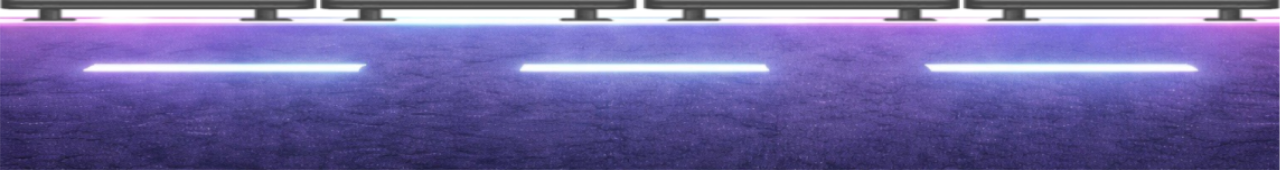
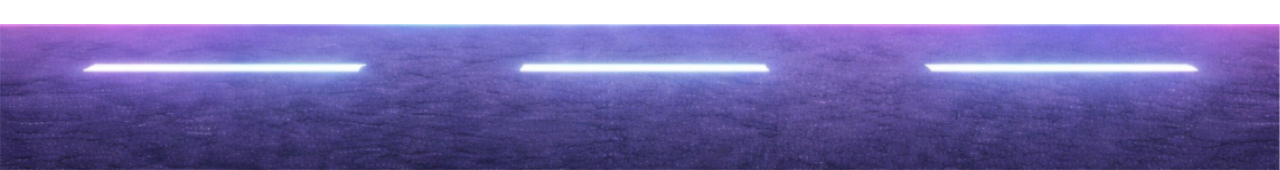
色々更新

Changed region(s): [[0.0, 0.0, 1.0, 0.1471]]

diff --git a/project/Source/Target.cpp b/project/Source/Target.cpp
@@ -7,6 +7,7 @@ Target::Target()
 	x = 0;
 	y = 0;
 	hp = 100;
+	nam = 0;
 	scrollX = 0;
 }
 
@@ -20,6 +21,8 @@ Target::Target(int fx, int fy, int handle, int fhp, int speed, bool rast)
 	x = fx;
 	y = fy;
 	hp = fhp;
+	maxhp = fhp;
+	nam = handle;
 	scrollX = speed;
 
 	rastobj = rast;
@@ -46,6 +49,7 @@ void Target::Update()
 	if (deadCounter > 0) {
 		deadCounter -= 1;
 		if (deadCounter == 0) {
+			breaked = TRUE;
 			DestroyMe();
 		}
 		return;
@@ -87,6 +91,7 @@ bool Target::isHit(int px, int py, int r[], int dmg[], int num)
 				if ((x < px && px < x + tWIDTH) && (y < py && py < y + tHEIGHT)) {
 					if (hit == 0) { hit = 2; }
 				}
+				sddScore();
 				hp -= dmg[i];
 				return true;
 			}
@@ -94,4 +99,17 @@ bool Target::isHit(int px, int py, int r[], int dmg[], int num)
 	}
 
 	return false;
+}
+
+void Target::sddScore()
+{
+	Common* c = FindGameObject<Common>();
+
+	if (breaked) {
+		c->score += ((float)maxhp * ((float)c->nowStage));
+	}
+	else {
+		c->score += ((float)maxhp * ((float)c->nowStage / 2.0));
+	}
+	
 }

diff --git a/project/Source/Player.cpp b/project/Source/Player.cpp
@@ -34,29 +34,12 @@ void Player::Update()
 {	
 	Common* c = FindGameObject<Common>();
 
-	flameCounter++;
+	flameCounter += 1.5;
 	scrollX += c->speedX;
 
 	if (flameCounter == 60) { flameCounter = 0; }
 
 	count = flameCounter / 30;
-
-	/**/
-	/*if (CheckHitKey(KEY_INPUT_LEFT)) {
-		if (prevPush) {
-			nowSelect--;
-			prevPush = FALSE;
-		}
-	}
-	else if (CheckHitKey(KEY_INPUT_RIGHT)) {
-		if (prevPush) {
-			nowSelect++;
-			prevPush = FALSE;
-		}
-	}
-	else {
-		prevPush = TRUE;
-	}*/
 }
 
 void Player::Draw()
@@ -70,7 +53,6 @@ void Player::Draw()
 		scrollX = 0;
 	}
 
-
 	DrawRectGraph(30, Screen::HEIGHT - 300, 350 * count, 0, 350, 200, carImage, TRUE);
 
 	int s = bufSize;
@@ -81,5 +63,6 @@ void Player::Draw()
 		s--;
 	}
 
-	
+	DrawFormatString(0, Screen::HEIGHT - 40, GetColor(255, 255, 255), "SCORE   : %d", c->score);
+	DrawFormatString(0, Screen::HEIGHT - 20, GetColor(255, 255, 255), "HISCORE : %d", c->hiScore);
 }

diff --git a/project/Source/Field.cpp b/project/Source/Field.cpp
@@ -17,7 +17,6 @@ Field::Field()
 	Common* c = FindGameObject<Common>();
 	Objects* obj = FindGameObject<Objects>();
 
-	score = 0;
 	goalline = 0;
 	scrollX = 0;
 	lastObj = FALSE;
@@ -55,8 +54,8 @@ Field::Field()
 		else{ lastObj = FALSE; }
 		if (maps[2][x] != 0) { new Target(maps[0][x], maps[1][x], maps[2][x], maps[3][x], maps[4][x] + c->speedX, lastObj); }
 	}
-	new Objects(2000, 310, 0, Maxfast + c->speedX + 1);
-	new Objects(4500, 310, 0, Maxfast + c->speedX + 1);
+	/*new Objects(2000, 310, 0, Maxfast + c->speedX + 1);
+	new Objects(4500, 310, 0, Maxfast + c->speedX + 1);*/
 }
 
 Field::~Field()
@@ -73,7 +72,7 @@ void Field::Update()
 
 	if (goalline < 0 && !cleared)
 	{
-		new Clear(score);
+		new Clear();
 		cleared = TRUE;
 	}
 }

diff --git a/project/Source/Target.h b/project/Source/Target.h
@@ -11,12 +11,14 @@ public:
 	void Draw() override;
 
 	bool isHit(int px, int py, int r[], int dmg[], int num);
+	void sddScore();
 private:
+	int nam;
 	int tImage;
 	int bmImage;
 	int tWIDTH, tHEIGHT;
 
-	int hp;
+	int hp, maxhp;
 	int hit;
 	int x, y;
 	int scrollX;

diff --git a/project/Source/Effects.h b/project/Source/Effects.h
@@ -1,0 +1,14 @@
+#pragma once
+#include "../Library/GameObject.h"
+
+class Effects:public GameObject
+{
+public:
+	Effects();
+	~Effects();
+
+	void Update()override;
+	void Draw()override;
+private:
+
+};

diff --git a/project/Source/Common.h b/project/Source/Common.h
@@ -17,7 +17,7 @@ public:
 	int gunrateBuf;
 	int maxammoBuf;
 
-	int Score;
+	int score;
 	int hiScore;
 	int mod[10] = { -1,-1,-1,-1,-1,-1,-1,-1,-1,-1 };
 	//int mod[10] = { 0,1,2,3,4,5,-1,-1,-1,-1 };

diff --git a/project/Source/Common.cpp b/project/Source/Common.cpp
@@ -10,5 +10,8 @@ Common::Common()
 	gunrateBuf = 0;
 	maxammoBuf = 0;
 
+	score = 0;
+	hiScore = 0;
+
 	std::string modlist[6] = { "attack","speed","maxbullet","bomAttack","bomRange","bomSup" };
 }

diff --git a/project/Source/Effects.cpp b/project/Source/Effects.cpp
@@ -1,0 +1,17 @@
+#include "Effects.h"
+
+Effects::Effects()
+{
+}
+
+Effects::~Effects()
+{
+}
+
+void Effects::Update()
+{
+}
+
+void Effects::Draw()
+{
+}

diff --git a/project/Source/Clear.h b/project/Source/Clear.h
@@ -7,7 +7,6 @@ class Clear:public GameObject
 {
 public:
 	Clear();
-	Clear(int score);
 	~Clear();
 
 	void Update()override;

diff --git a/project/Source/Field.h b/project/Source/Field.h
@@ -25,7 +25,6 @@ private:
 	int goalline;
 
 	int hp;
-	int score;
 	int scrollX;
 	int x, y;
 	int dx, dy;
